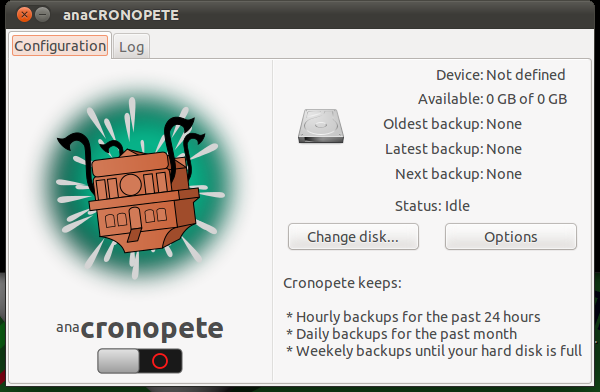
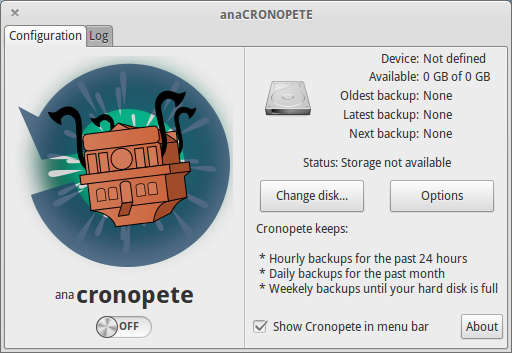
Changed version number
Updated documentation

diff --git a/doc/README.html b/doc/README.html
@@ -1,6 +1,6 @@
 <html>
   <head>
-    <title>Cronopete 3.2.0</title>
+    <title>Cronopete 3.4.0</title>
     <style type="text/css" media="all">
       .menu { background-color: #dddbd8; }
       .filename { color: green; }
@@ -8,7 +8,7 @@
     </style>
   </head>
 <body>
-<div align="center"><h1>CRONOPETE 3.2.0</h1></div>
+<div align="center"><h1>CRONOPETE 3.4.0</h1></div>
 
 <p>The Apple's TimeMachine clone for Linux</p>
 
@@ -165,6 +165,20 @@ or with the program <span class="command">/usr/bin/cronopete_restore</span></li>
 
 <h2>History of versions</h2>
 <ul>
+
+<li>Version 3.4.0 (2012/10/13)</li>
+<ul>
+<li>Changed to CMake</li>
+<li>Optional support for libappindicator</li>
+<li>Simplified messages</li>
+<li>New graphics</li>
+<li>Added a progress bar for each file being restored</li>
+<li>Now uses GConf to store the configuration</li>
+<li>Now shows only external devices when asking for a drive</li>
+<li>Added a .PLUG file for Elementary OS compatibility</li>
+<li>Allows to show or hide the icon in the main bar</li>
+</ul>
+
 
 <li>Version 3.2.0 (2012/09/09)</li>
 <ul>
